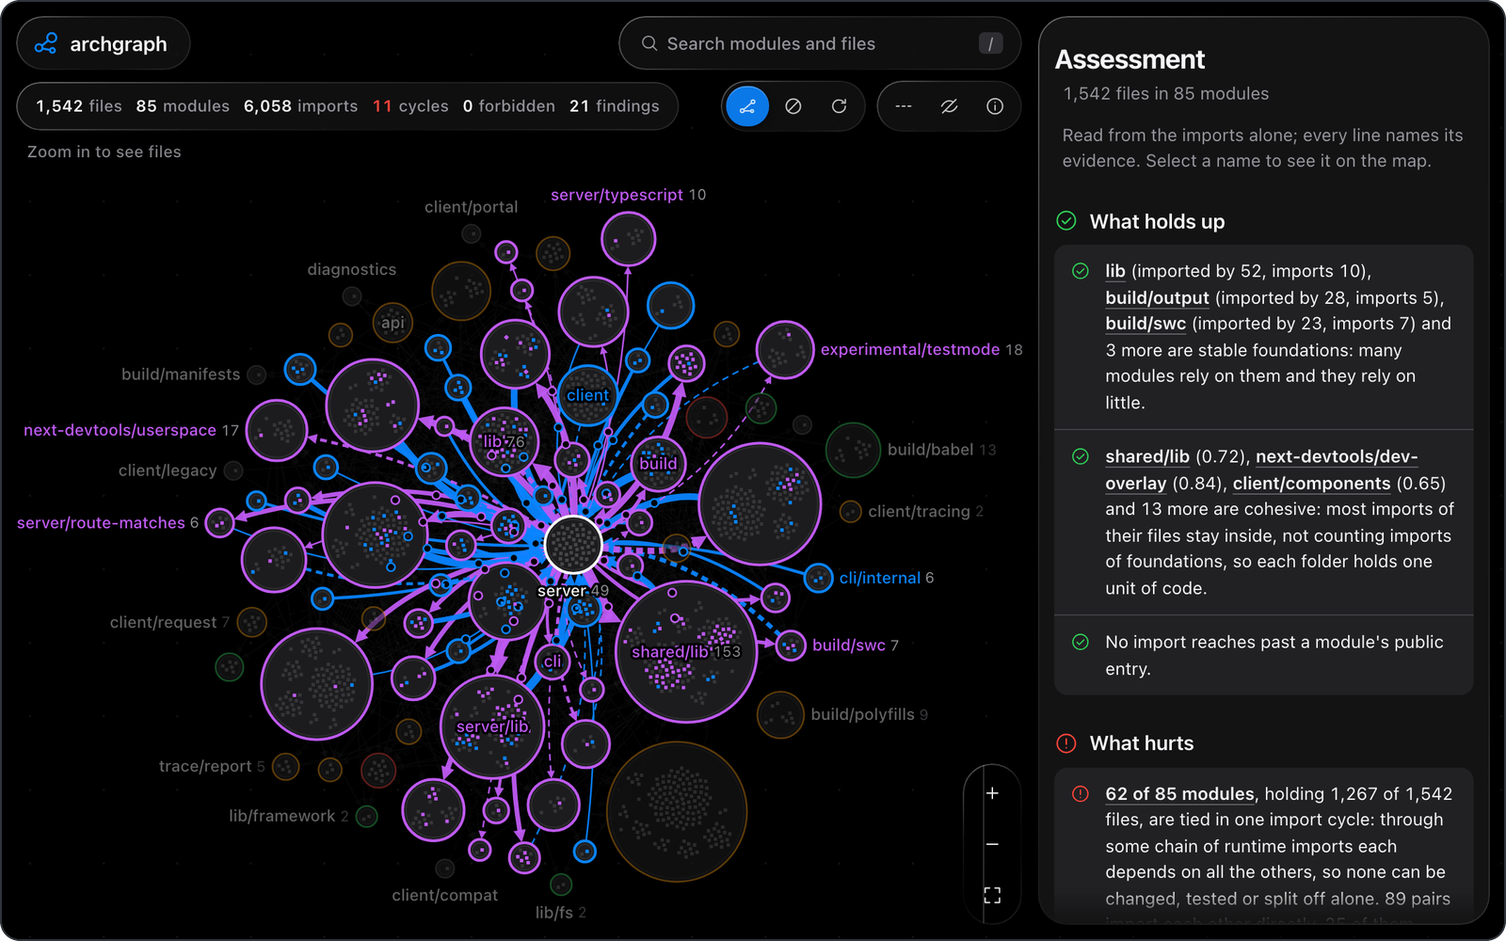
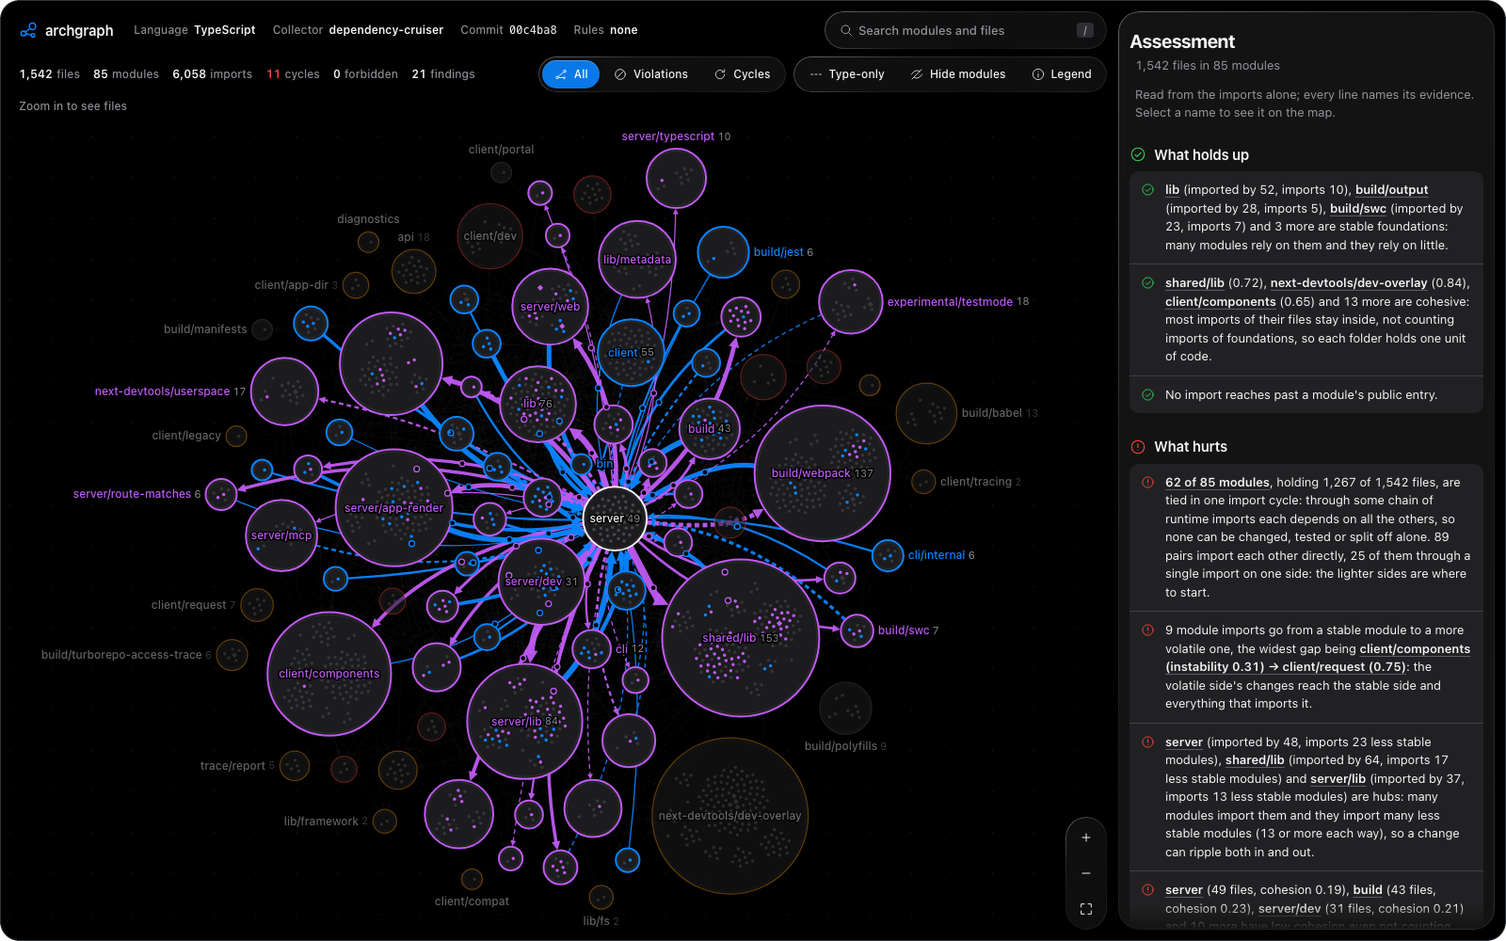
Map: plain-text header, ring colours from cycles and findings
The wordmark and counts float over the map as plain text. The file tree's
indent-guide rule no longer matches the zoom capsule, which drew a line
through it.

Module rings no longer count incoming imports or cohesion against a module:
red marks a module owning imports to cut from a cycle or a forbidden import,
amber another cycle member or a module with a finding, neutral the rest. A
hub counts only imports into less stable modules. Next steps list "write a
layout.yaml" after every concrete step. Hero and demo re-captured.

diff --git a/assets/graph.html b/assets/graph.html
@@ -30,7 +30,7 @@
   --grid: rgba(235, 235, 245, .07); --edge: rgba(235, 235, 245, .42);
   --forbidden: var(--red-s); --unplanned: var(--orange); --in: var(--blue); --out: var(--purple);
   --move: var(--teal); --cochange: var(--label2); --focus: var(--blue);
-  --green: var(--green-s); --amber: var(--orange); --red: var(--red-s); --grey: rgba(235, 235, 245, .3);
+  --amber: var(--orange); --red: var(--red-s); --grey: rgba(235, 235, 245, .3);
 }
 @media (prefers-contrast: more) {
   :root { --label2: rgba(235, 235, 245, .82); --label3: rgba(235, 235, 245, .55); --sep: rgba(255, 255, 255, .38);
@@ -81,7 +81,12 @@ svg.i { width: 16px; height: 16px; flex: none; fill: none; stroke: currentColor;
 .line { display: flex; align-items: center; flex-wrap: wrap; gap: 8px; }
 .line > * { pointer-events: auto; }
 .spacer { flex: 1; pointer-events: none !important; }
-.brand-cap { display: flex; align-items: center; gap: 8px 20px; flex-wrap: wrap; min-height: 40px; padding: 6px 18px 6px 12px; min-width: 0; }
+/* Labels float over the map as plain text; only controls sit in glass. A soft halo keeps them
+   legible over busy parts of the map, and the header fade below sits behind them. */
+.brand-cap { display: flex; align-items: center; gap: 8px 22px; flex-wrap: wrap; min-height: 40px; padding: 0 8px; min-width: 0;
+  text-shadow: 0 0 2px #000, 0 1px 8px rgba(0, 0, 0, .9); }
+.headfade { position: fixed; z-index: 4; top: 0; left: 0; right: var(--pw); height: calc(var(--top) + 40px); pointer-events: none;
+  background: linear-gradient(to bottom, rgba(0, 0, 0, .72) 0, rgba(0, 0, 0, .62) calc(100% - 64px), rgba(0, 0, 0, 0) 100%); }
 .brand { display: flex; align-items: center; gap: 8px; margin: 0; font-size: 15px; line-height: 1.2; font-weight: 600; letter-spacing: -0.01em; }
 .brand svg { width: 20px; height: 20px; color: var(--blue); }
 .meta { display: flex; flex-wrap: wrap; gap: 2px 18px; margin: 0; min-width: 0; font-size: 12px; letter-spacing: .01em; }
@@ -101,8 +106,8 @@ svg.i { width: 16px; height: 16px; flex: none; fill: none; stroke: currentColor;
 #search::-webkit-search-cancel-button { filter: invert(1) opacity(.5); }
 kbd { position: absolute; right: 14px; min-width: 18px; padding: 0 5px; border-radius: 4px; background: rgba(118, 118, 128, .3);
   font: 500 11px/16px var(--sans); letter-spacing: .01em; color: var(--label2); text-align: center; }
-.stats { display: flex; flex-wrap: wrap; align-items: center; gap: 2px 10px; margin: 0; min-height: 36px; padding: 6px 14px; color: var(--label2);
-  font-size: 12px; font-weight: 500; letter-spacing: .01em; }
+.stats { display: flex; flex-wrap: wrap; align-items: center; gap: 2px 14px; margin: 0; min-height: 38px; padding: 0 8px; color: var(--label2);
+  font-size: 12px; font-weight: 500; letter-spacing: .01em; text-shadow: 0 0 2px #000, 0 1px 8px rgba(0, 0, 0, .9); }
 .stats b { color: var(--label); font-weight: 600; margin-right: 4px; }
 .stats .bad b { color: var(--red-s); }
 .seg { position: relative; display: inline-flex; padding: 4px; gap: 2px; }
@@ -161,7 +166,7 @@ kbd { position: absolute; right: 14px; min-width: 18px; padding: 0 5px; border-r
 .legend p { grid-column: 1 / -1; margin: 8px 0 0; }
 .sw { display: inline-block; flex: none; }
 .sw.h { width: 12px; height: 12px; border-radius: 50%; border: 1.5px solid currentColor; background: var(--fill1); }
-.green { color: var(--green-s); } .amber { color: var(--orange); } .red { color: var(--red-s); } .grey { color: rgba(235, 235, 245, .4); }
+.amber { color: var(--orange); } .red { color: var(--red-s); } .grey { color: rgba(235, 235, 245, .4); }
 .sw.ln { width: 20px; border-top: 1px solid var(--edge); }
 .sw.ln.forbidden { border-color: var(--red-s); border-top-width: 1.5px; } .sw.ln.unplanned { border-color: var(--orange); border-top-width: 1.5px; }
 .sw.ln.dash { border-top-style: dashed; } .sw.ln.in { border-color: var(--blue); border-top-width: 2px; } .sw.ln.out { border-color: var(--purple); border-top-width: 2px; }
@@ -307,8 +312,9 @@ details.row > summary:hover { background: rgba(118, 118, 128, .14); }
 .tv span { min-width: 0; overflow: hidden; text-overflow: ellipsis; }
 .tv.forbidden { color: var(--red-s); } .tv.unplanned { color: var(--orange); }
 .tv + .tcount { margin-left: 4px; }
-[role="group"] { background: linear-gradient(var(--sep), var(--sep)) no-repeat calc(15px + var(--lvl, 0) * 16px) 0 / 1px 100%; }
-.tgroup:hover > [role="group"] { background-image: linear-gradient(rgba(235, 235, 245, .4), rgba(235, 235, 245, .4)); }
+/* Indentation guides, for tree groups only: the zoom capsule is a role="group" too. */
+[role="tree"] [role="group"] { background: linear-gradient(var(--sep), var(--sep)) no-repeat calc(15px + var(--lvl, 0) * 16px) 0 / 1px 100%; }
+[role="tree"] .tgroup:hover > [role="group"] { background-image: linear-gradient(rgba(235, 235, 245, .4), rgba(235, 235, 245, .4)); }
 .tempty { padding: 4px 12px; color: var(--label2); font-size: 12px; }
 .tmore { display: block; width: 100%; margin-top: 4px; padding: 4px 8px; border: 0; border-radius: 6px; background: none; color: var(--blue);
   font-size: 12px; font-weight: 500; text-align: left; }
@@ -372,7 +378,7 @@ p { margin: 6px 0; }
   .chrome .line:nth-child(2) { display: none; }
   .meta, #find, .stats { display: none; }
   .compact-only { display: inline-flex; }
-  .brand-cap { min-height: 44px; padding: 6px 16px 6px 12px; }
+  .brand-cap { min-height: 44px; padding: 0 8px; }
   .cbtn { align-items: center; justify-content: center; gap: 6px; min-width: 44px; height: 44px; padding: 0 12px; border: 0; color: var(--label);
     font-size: 13px; font-weight: 600; letter-spacing: 0; transition: transform .12s ease-out; }
   .cbtn:active { transform: scale(.96); }
@@ -485,9 +491,10 @@ p { margin: 6px 0; }
   <feTurbulence type="fractalNoise" baseFrequency="0.008 0.011" numOctaves="1" seed="7" result="noise"/>
   <feDisplacementMap in="SourceGraphic" in2="noise" scale="7" xChannelSelector="R" yChannelSelector="G"/>
 </filter></svg>
+<div class="headfade" aria-hidden="true"></div>
 <header class="chrome" id="chrome">
   <div class="line">
-    <div class="glass capsule brand-cap">
+    <div class="brand-cap">
       <h1 class="brand" id="title"><svg class="i" viewBox="0 0 20 20" aria-hidden="true"><circle cx="5" cy="13.5" r="2.6"/><circle cx="14.5" cy="6" r="3.4"/><circle cx="15" cy="15.5" r="1.8"/><path d="M7.2 12l4.4-3.7M13.2 15.1l-5.6-1"/></svg>archgraph</h1>
       <dl class="meta" id="meta"></dl>
     </div>
@@ -505,7 +512,7 @@ p { margin: 6px 0; }
     <button type="button" class="cancel compact-only" id="search-cancel">Cancel</button>
   </div>
   <div class="line">
-    <p class="stats glass capsule" id="stats" aria-hidden="true"></p>
+    <p class="stats" id="stats" aria-hidden="true"></p>
     <p class="sr" id="stats-text"></p>
     <span class="spacer"></span>
     <div class="seg glass capsule" role="radiogroup" aria-label="Which imports to show" id="seg">
@@ -531,10 +538,11 @@ p { margin: 6px 0; }
         <div class="pop" id="legend" hidden>
           <div class="legend">
             <h2>Modules</h2>
-            <span><i class="sw h green"></i>cohesive, few links</span>
-            <span><i class="sw h amber"></i>mixed</span>
-            <span><i class="sw h red"></i>low cohesion, many links</span>
-            <span><i class="sw h grey"></i>fewer than 2 files</span>
+            <span><i class="sw h red"></i>forbidden import</span>
+            <span><i class="sw h red"></i>imports to cut to break a cycle</span>
+            <span><i class="sw h amber"></i>in a cycle</span>
+            <span><i class="sw h amber"></i>has a finding</span>
+            <span><i class="sw h grey"></i>no issues found</span>
             <span><i class="sw dia"></i>barrel file</span>
             <span><i class="sw pin"></i>moved by you</span>
             <h2>Imports</h2>
@@ -716,18 +724,6 @@ for (const e of edges) {
   e.fileCycle = !e.me && runtime(e) && fileCycle[e.a] >= 0 && fileCycle[e.a] === fileCycle[e.b];
   e.cycle = e.me ? e.me.cycle && runtime(e) : e.fileCycle;
 }
-
-const degree = m => m.ca + m.ce;
-const sortedDeg = mods.map(degree).sort((a, b) => a - b);
-const median = N === 0 ? 0 : N % 2 ? sortedDeg[(N - 1) / 2] : (sortedDeg[N / 2 - 1] + sortedDeg[N / 2]) / 2;
-function health(m) {
-  if (m.files < 2) return "grey";
-  if (m.cohesion !== null && m.cohesion >= 0.5 && degree(m) <= median) return "green";
-  if (m.cohesion !== null && m.cohesion < 0.3 && degree(m) > median) return "red";
-  return "amber";
-}
-const modHealth = mods.map(health);
-const HEALTH_TEXT = { green: "cohesive, few links", amber: "mixed", red: "low cohesion, many links", grey: "fewer than 2 files" };
 
 /* ---------- layout (deterministic: no randomness, fixed iteration counts) ---------- */
 const R_DOT = 2.6, SP = 10, GAP = 34, GOLDEN = Math.PI * (3 - Math.sqrt(5));
@@ -1093,6 +1089,22 @@ for (const fd of findings) {
   for (const j of fd.fs) { if (!findingsOfFile.has(j)) findingsOfFile.set(j, []); findingsOfFile.get(j).push(fd); }
 }
 
+/* Ring colour comes only from what archgraph checked, the strongest signal first. Red: either end
+   of a forbidden import, or the module an import to cut (a cycle's break set) or a registrar move
+   changes. Amber: the other members of a module cycle, and any module a finding names. Grey: none.
+   Cohesion and link counts are shown as numbers, not colour: nearly every real folder has cohesion
+   near 0, and being imported a lot marks stable code, not a problem. */
+const forbiddenMod = new Uint8Array(N), cutMod = new Uint8Array(N);
+for (const e of edges) if (e.verdict === "forbidden") forbiddenMod[files[e.a].mod] = forbiddenMod[files[e.b].mod] = 1;
+for (const c of doc.cycles) if (c.level === "module") {
+  for (const l of c.break) if (fileIndex.has(l.from)) cutMod[files[fileIndex.get(l.from)].mod] = 1;
+  for (const r of c.registrar_moves || []) if (modIndex.has(r.module)) cutMod[modIndex.get(r.module)] = 1;
+}
+const modSignal = mods.map((m, i) => forbiddenMod[i] ? "forbidden" : cutMod[i] ? "cut" : modCycle[i] >= 0 ? "cycle" : findingsOfModule[i].length ? "finding" : "none");
+const RING = { forbidden: "red", cut: "red", cycle: "amber", finding: "amber", none: "grey" };
+const HEALTH_TEXT = { forbidden: "forbidden import", cut: "imports to cut to break a cycle", cycle: "in a cycle", finding: "has a finding", none: "no issues found" };
+const modHealth = modSignal.map(k => RING[k]);
+
 /* ---------- assessment: what holds up, what hurts, what to do next ----------
    Read from the document alone. Sentences name modules, files, imports and findings with their
    numbers; there is no overall score. Each threshold says why it sits where it does. */
@@ -1110,12 +1122,20 @@ const nf = n => n.toLocaleString("en-US");
 const times = n => n === 1 ? "once" : n === 2 ? "twice" : `${nf(n)} times`;
 const ids = n => [...Array(n).keys()];
 const filesIn = ms => [...ms].reduce((s, i) => s + modFiles[i].length, 0);
+/* The module imports into a more volatile module, with the instabilities on both sides. */
+const moreVolatile = mods.map((m, i) => medges.filter(me => me.a === i && m.instability !== null && mods[me.b].instability !== null &&
+  mods[me.b].instability > m.instability).map(me => me.b));
+/* The modules a module imports that are less stable than itself (higher instability), counted on
+   outgoing_to like ca and ce: a change in them can reach it, a change in a more stable one rarely
+   does. A document without outgoing_to (older archgraph) falls back to the module edges. */
+const lessStable = mods.map((m, i) => !m.outgoing_to ? moreVolatile[i] : m.instability === null ? [] :
+  Object.keys(m.outgoing_to).filter(id => id !== m.id && modIndex.has(id) && mods[modIndex.get(id)].instability > m.instability).map(id => modIndex.get(id)));
 function roleOf(i) {
   const m = mods[i];
   if (!m.ca && !m.ce) return "isolated";
   if (!m.ca && m.files > 1 && !m.internal_edges) return "collection";
   if (!m.ca) return "entry";
-  if (m.ca >= MANY && m.ce >= MANY) return "hub";
+  if (m.ca >= MANY && lessStable[i].length >= MANY) return "hub";
   if (m.ca >= MANY && m.instability !== null && m.instability <= STABLE_MAX) return "foundation";
   return "regular";
 }
@@ -1149,9 +1169,6 @@ const cohesionX = mods.map((m, i) => {
   const out = m.outgoing_edges - foundationsOf[i].reduce((s, f) => s + m.outgoing_to[mods[f].id], 0);
   return m.internal_edges + out ? m.internal_edges / (m.internal_edges + out) : null;
 });
-/* The module imports into a more volatile module, with the instabilities on both sides. */
-const moreVolatile = mods.map((m, i) => medges.filter(me => me.a === i && m.instability !== null && mods[me.b].instability !== null &&
-  mods[me.b].instability > m.instability).map(me => me.b));
 const foundationNames = () => names(foundations, i => ({ m: i }));
 /* Modules with an unstable-dependency finding: a more volatile import by 0.25 or more. */
 const pullsVolatile = new Set(ofKind("unstable-dependency").map(fd => modIndex.get(fd.f.evidence.from)));
@@ -1252,11 +1269,11 @@ const assessment = (() => {
       ? [`${where} has an import cycle between `, j >= 0 ? { fd: j, label: ofIts } : ofIts, "."]
       : [`${fileCycles.length} import cycles run between files inside a module, the largest through `, j >= 0 ? { fd: j, label: bigLabel } : bigLabel, ` of ${where}.`] });
   }
-  const hubs = ids(N).filter(i => roleOf(i) === "hub").sort((a, b) => mods[b].ca * mods[b].ce - mods[a].ca * mods[a].ce);
+  const hubs = ids(N).filter(i => roleOf(i) === "hub").sort((a, b) => mods[b].ca * lessStable[b].length - mods[a].ca * lessStable[a].length);
   if (hubs.length) {
-    bad.push({ touch: filesIn(hubs), parts: [...names(hubs, i => [{ m: i }, ` (imported by ${mods[i].ca}, imports ${mods[i].ce})`]),
-      hubs.length === 1 ? " is a hub: many modules import it and it imports many, so a change can ripple both into it and out of it."
-        : ` are hubs: many modules import them and they import many (${MANY} or more each way), so a change can ripple both in and out.`] });
+    bad.push({ touch: filesIn(hubs), parts: [...names(hubs, i => [{ m: i }, ` (imported by ${mods[i].ca}, imports ${lessStable[i].length} less stable modules)`]),
+      hubs.length === 1 ? " is a hub: many modules import it and it imports many less stable modules, so a change can ripple both into it and out of it."
+        : ` are hubs: many modules import them and they import many less stable modules (${MANY} or more each way), so a change can ripple both in and out.`] });
   }
   const loose = judged.filter(i => mods[i].ca > 0 && cohesionX[i] !== null && cohesionX[i] < LOOSE_MAX).sort((a, b) => mods[b].files - mods[a].files);
   if (loose.length) {
@@ -1400,11 +1417,12 @@ const assessment = (() => {
     const ev = fd.f.evidence, entry = ev.entries[0];
     next.push([{ fd: fd.i, label: `Import ${ev.module} through its entry` }, entry ? ` (${short(entry)})` : "", ev.imports === 1 ? " in the one place that reaches past it." : ` in the ${ev.imports} places that reach past it.`]);
   }
-  if (!doc.config.rules && N > 2) next.push(["Write a layout.yaml with layers and public entries for the boundaries you agree on, so archgraph check can hold them in CI."]);
   if (unstable.length) {
     const fd = unstable[0], ev = fd.f.evidence;
     next.push([{ fd: fd.i, label: `Untie ${ev.from} from ${ev.to}` }, `: stable ${ev.from} imports volatile ${ev.to} ${times(ev.imports)}; depend on an abstraction ${ev.from} owns, or move the code it needs.`]);
   }
+  /* The generic advice comes after every concrete step. */
+  if (!doc.config.rules && N > 2) next.push(["Write a layout.yaml with layers and public entries for the boundaries you agree on, so archgraph check can hold them in CI."]);
   return { good, bad, next: next.slice(0, MAX_NEXT) };
 })();
 
@@ -1414,7 +1432,7 @@ function diagnosis(i) {
   const listed = l => l.length > NAMES ? `${l.slice(0, NAMES).join(", ")} and ${l.length - NAMES} more` : l.length > 1 ? `${l.slice(0, -1).join(", ")} and ${l[l.length - 1]}` : l[0];
   const say = (...p) => out.push(...p, " ");
   if (role === "foundation") say(`${m.id} is a foundation: ${m.ca} modules import it and it imports ${m.ce}, so it is stable (instability ${n2(m.instability)}).`);
-  else if (role === "hub") say(`${m.id} is a hub: ${m.ca} modules import it and it imports ${m.ce}, so a change can ripple both into it and out of it.`);
+  else if (role === "hub") say(`${m.id} is a hub: ${m.ca} modules import it and it imports ${lessStable[i].length} less stable modules, so a change can ripple both into it and out of it.`);
   else if (role === "entry") say(`${m.id} is an entry point: no module imports it, and it imports ${count(m.ce, "module", "modules")}.`);
   else if (role === "isolated") say(`${m.id} is isolated: it imports no other module and none imports it.`);
   else if (role === "collection") say(`${m.id} is a collection of ${m.files} entry files: no module imports it and its files do not import each other, so cohesion does not apply; together they import ${count(m.ce, "module", "modules")}.`);
@@ -1540,7 +1558,7 @@ let MONO = "monospace", SANS = "sans-serif", TONE = {};
 function readTheme() {
   const s = getComputedStyle(document.documentElement);
   for (const n of ["bg", "surface", "fg", "muted", "grid", "edge", "forbidden", "unplanned", "in", "out", "move",
-    "cochange", "focus", "green", "amber", "red", "grey"]) C[n] = s.getPropertyValue("--" + n).trim();
+    "cochange", "focus", "amber", "red", "grey"]) C[n] = s.getPropertyValue("--" + n).trim();
   MONO = s.getPropertyValue("--mono").trim() || "monospace";
   SANS = s.getPropertyValue("--sans").trim() || "sans-serif";
   TONE = { forbidden: C.forbidden, unplanned: C.unplanned, neutral: C.edge };
@@ -1744,7 +1762,7 @@ function fitLabels() {
 function measureChrome() {
   let bottom = 0;
   chromeRects = [];
-  for (const node of document.querySelectorAll(".chrome .line > .glass, .chrome .line > .cancel, .ctrl, #level, #mini, #sheet, #side-open")) {
+  for (const node of document.querySelectorAll(".chrome .line > .glass, .chrome .line > .brand-cap, .chrome .line > .stats, .chrome .line > .cancel, .ctrl, #level, #mini, #sheet, #side-open")) {
     if (node.hidden || (node === sheet && sideHidden)) continue;
     const r = node.getBoundingClientRect();
     if (!r.width || !r.height) continue;
@@ -2296,7 +2314,7 @@ function verdictLine(v) {
 function tipLines(h) {
   if (h.type === "module") {
     const m = mods[h.i];
-    return [m.id, `${count(m.files, "file", "files")}, ${HEALTH_TEXT[modHealth[h.i]]}`,
+    return [m.id, `${count(m.files, "file", "files")}, ${HEALTH_TEXT[modSignal[h.i]]}`,
       `imported by ${count(m.ca, "module", "modules")}, imports ${count(m.ce, "module", "modules")}`,
       `instability ${n2(m.instability)}, cohesion ${n2(m.cohesion)}`];
   }
@@ -2660,7 +2678,7 @@ document.addEventListener("keydown", ev => {
 const modsEl = $("mods");
 const modButtons = mods.map((m, i) => {
   const b = el("button", { type: "button",
-    "aria-label": `module ${m.id}, ${count(m.files, "file", "files")}, ${HEALTH_TEXT[modHealth[i]]}` }, m.id);
+    "aria-label": `module ${m.id}, ${count(m.files, "file", "files")}, ${HEALTH_TEXT[modSignal[i]]}` }, m.id);
   b.addEventListener("focus", () => {
     kb = { type: "module", i };
     applyFocus();
@@ -3595,7 +3613,7 @@ function overview() {
 function modulePanel(i) {
   const m = mods[i];
   const chip = el("span", { class: "pill" });
-  chip.append(el("i", { class: "sw h " + modHealth[i] }), document.createTextNode(HEALTH_TEXT[modHealth[i]]));
+  chip.append(el("i", { class: "sw h " + modHealth[i] }), document.createTextNode(HEALTH_TEXT[modSignal[i]]));
   head("Module", m.id, chip);
   panel.append(sentence(diagnosis(i), "p"));
   panel.lastChild.className = "diag";

diff --git a/tests/render.rs b/tests/render.rs
@@ -52,6 +52,10 @@ fn render_is_self_contained_and_embeds_the_document() {
     ] {
         assert!(!template.contains(banned), "{banned} in the page template");
     }
+    // The ring colour comes only from cycles, forbidden imports and findings.
+    for gone in ["low cohesion, many links", "cohesive, few links"] {
+        assert!(!template.contains(gone), "{gone} in the page template");
+    }
     // The embedded scan is the input document recomputed with the same rules: identical.
     let doc: Value = serde_json::from_str(embedded(&html)).unwrap();
     let input: Value = serde_json::from_str(&fs::read_to_string(&graph).unwrap()).unwrap();

diff --git a/docs/guide.md b/docs/guide.md
@@ -104,7 +104,7 @@ forbidden src/shared/format.ts -> src/domains/cart/types.ts (shared-no-domain)
 archgraph simulate graph.json --move src/utils/dates.ts src/calendar/dates.ts
 ```
 
-**render** writes one self-contained HTML page. It opens with an assessment read from the scan: what holds up, what hurts (ranked by how much of the code it touches) and at most seven next steps, each with its numbers and a link to its evidence; each module panel opens with its role (foundation, hub, entry point and so on) and what is good, risky and next. Cohesion there is judged without imports into foundation modules, using `modules[].outgoing_to`. Below that is a zoomable map of modules as circles colored by health, holding their files grouped by folder, with module imports as curved arrows (red forbidden, amber unplanned, dashed type-only). Zoom in (wheel, pinch, `+`/`-`) and the files, their imports and their names appear. Hover or click a module for its importers and imports, a file or an import for its verdict and rule; the side panel lists findings by kind and draws suggested moves with their before and after numbers. Search, filters for forbidden, unplanned and cycle imports, and hiding busy modules keep large graphs readable. The page makes no network requests.
+**render** writes one self-contained HTML page. It opens with an assessment read from the scan: what holds up, what hurts (ranked by how much of the code it touches) and at most seven next steps, each with its numbers and a link to its evidence; each module panel opens with its role (foundation, hub, entry point and so on) and what is good, risky and next. Cohesion there is judged without imports into foundation modules, using `modules[].outgoing_to`. Below that is a zoomable map of modules as circles whose ring shows what archgraph checked (red: on either end of a forbidden import, or holding an import to cut or a registrar move for a module cycle; amber: the other members of a module cycle, or named by a finding; grey: nothing found), holding their files grouped by folder, with module imports as curved arrows (red forbidden, amber unplanned, dashed type-only). Zoom in (wheel, pinch, `+`/`-`) and the files, their imports and their names appear. Hover or click a module for its importers and imports, a file or an import for its verdict and rule; the side panel lists findings by kind and draws suggested moves with their before and after numbers. Search, filters for forbidden, unplanned and cycle imports, and hiding busy modules keep large graphs readable. The page makes no network requests.
 
 ```sh
 archgraph render graph.json -o graph.html

diff --git a/README.md b/README.md
@@ -19,7 +19,7 @@
 </p>
 
 <a href="https://dogebonker.github.io/archgraph/next.js.html">
-  <img alt="The archgraph map of Next.js: 85 modules as dark discs with health rings, the server module selected with its 48 importers in blue and 39 imports in purple, and the assessment panel beside the map" src="docs/assets/hero.png" width="100%">
+  <img alt="The archgraph map of Next.js: 85 modules as dark discs with rings that mark cycles and findings, the server module selected with its 48 importers in blue and 39 imports in purple, and the assessment panel beside the map" src="docs/assets/hero.png" width="100%">
 </a>
 <p align="center"><sub>Next.js (<code>packages/next</code> at <code>00c4ba8</code>): 1,542 files, 85 modules, 6,058 imports. Click it for the live map. Made with <code>archgraph report</code> (<a href="showcase/">how</a>).</sub></p>
 
@@ -90,7 +90,7 @@ forbidden src/domain/user.ts -> src/adapters/out/pg.ts (layers)
 ```
 
 <p align="center">
-  <img alt="Zooming into the shared/lib module of Next.js until its files appear, dragging the server module across the map while its imports follow, then clicking it for its diagnosis: a hub imported by 48 modules that imports 39" src="docs/assets/demo.webp" width="100%">
+  <img alt="Zooming into the shared/lib module of Next.js until its files appear, dragging the server module across the map while its imports follow, then clicking it for its diagnosis: a hub imported by 48 modules that imports 23 less stable ones, with a red ring for imports to cut to break a cycle" src="docs/assets/demo.webp" width="100%">
 </p>
 
 The map is one HTML file with no network requests. Zoom until files appear, drag modules to make sense of a cluster (your layout is remembered), click anything for who imports it and what to do about it.
